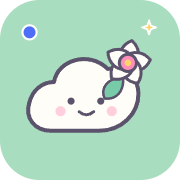
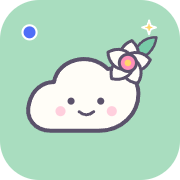
Move mascot leaf away from face

Changed region(s): [[0.5556, 0.4444, 0.6944, 0.5556], [0.75, 0.1944, 0.8889, 0.3056]]

diff --git a/sw.js b/sw.js
@@ -1,5 +1,5 @@
 /* 修改页面或资源后同步提升 CACHE 版本。 */
-const CACHE = 'duoduo-garden-v2';
+const CACHE = 'duoduo-garden-v3';
 const ASSETS = [
   './',
   './index.html',

diff --git a/????.md b/????.md
@@ -1,5 +1,10 @@
 # 更新日志
 
+## 1.0.2
+
+- 调整云朵吉祥物发饰中的叶子方向，改为向右上方展开并置于花瓣后方，不再遮挡眼睛。
+- 同步更新 SVG、180/192/512 PNG 与 ICO。
+
 ## 1.0.1
 
 - 新增云朵吉祥物多多，她在耳边别着一朵白山茶。
